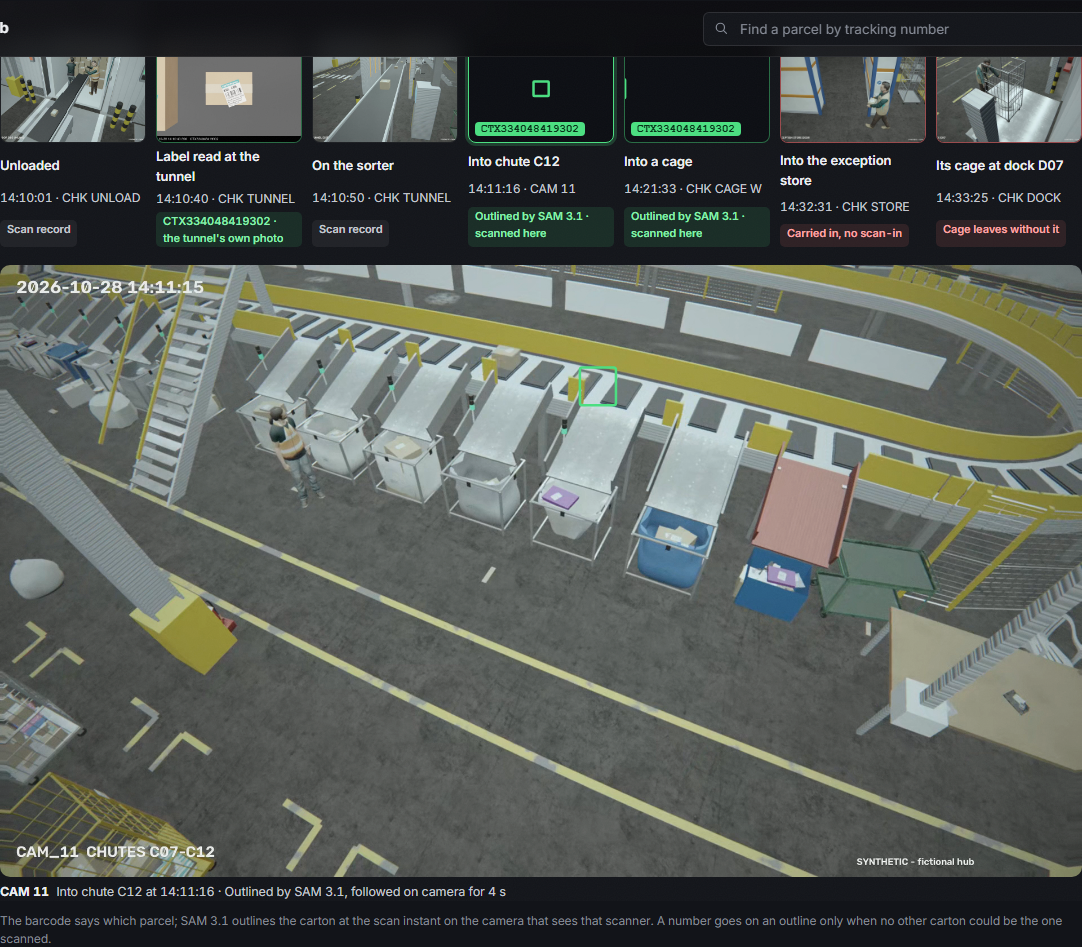
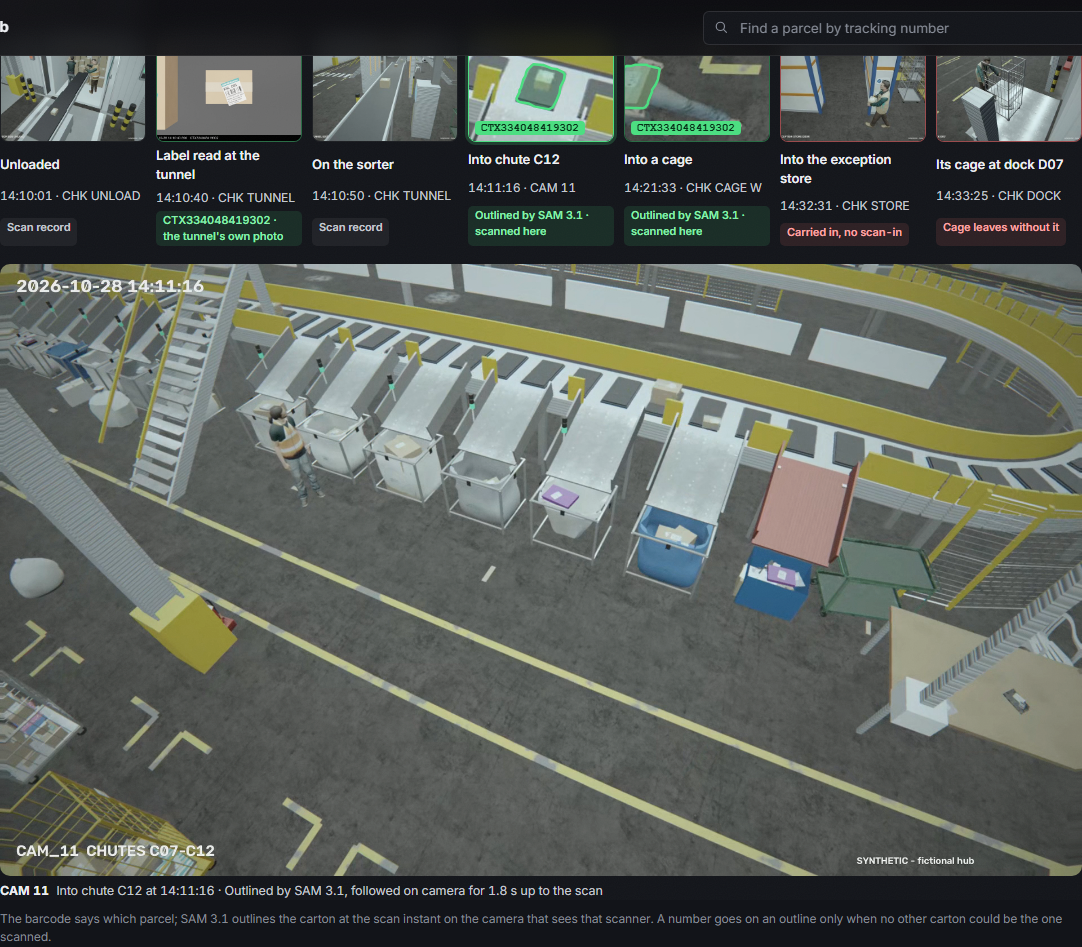
Show the pick where the carton is wholly in view (best frame of the track), follow rests on the scan frame with its outline, contours memoised, Report waits for the case; demo video + thumbnails (day plan G)

diff --git a/frontend/src/components/case/CaseStory.tsx b/frontend/src/components/case/CaseStory.tsx
@@ -18,6 +18,7 @@
 import { useEffect, useMemo, useRef, useState } from "react";
 import { api, previewUrl, signedUrl, useResource } from "@/lib/api";
 import { camId } from "@/lib/hub";
+import { useBestView } from "@/lib/focus";
 import type { MediaRow, Site } from "@/lib/types";
 import { HYPOTHESIS_WORDS, type InsideFacts, type InvestigationView } from "@/lib/answer";
 import type { JourneyObject, XY } from "@/lib/journey";
@@ -33,7 +34,7 @@ const CHECK_WORDS: Record<string, string> = { stayed_in_area: "stayed inside", e
 interface Moment { key: string; iso: string; text: string; xy: XY; tone?: "bad"; from?: string; /** the measured time, when the frame shown is a moment off it */ at?: string;
   /** the clip that shows it and its camera; box: an outline at this moment (frame pixels) */
   media: string; cam: string; box?: number[] | null }
-interface Alert { at_utc: string; camera_id: string; media_id: string; box_px: number[] | null; candidates: { waybill: string }[] }
+interface Alert { at_utc: string; camera_id: string; media_id: string; frame_index: number; track_id: string; box_px: number[] | null; candidates: { waybill: string }[] }
 
 const camWords = (c: string) => c.replace(/^cam_/, "").replaceAll("_", " ");
 
@@ -85,6 +86,9 @@ export function CaseStory({ caseId, inside, view, journey, truck }: {
   const alerts = useResource<Alert[]>(siteId ? `/v1/sites/${siteId}/alerts` : null);
   const waybill = view.objects[0]?.label?.split(" ").at(-1) ?? "";
   const pick = (alerts.data ?? []).find((a) => a.candidates.length === 1 && a.candidates[0].waybill === waybill);
+  // show the pick where the carton is wholly in the picture (the alert's frame is where it leaves the view)
+  const pickView = useBestView(pick?.media_id, pick?.track_id, pick?.frame_index);
+  const pickIso = pick ? new Date(Date.parse(pick.at_utc) + (pickView?.dms ?? 0)).toISOString() : "";
   const area = inside.area_xy as XY;
   const door = inside.door_xy as XY;
   // where the tracked carton stood on the floor (the journey's observed points), nearest a time
@@ -104,8 +108,8 @@ export function CaseStory({ caseId, inside, view, journey, truck }: {
     return { media: inside.media_id, cam: wide };
   };
   const moments: Moment[] = useMemo(() => [
-    ...(pick ? [{ key: "pick", iso: pick.at_utc, text: "Taken out of its cage, no scan", xy: floorAt(firstIso), media: pick.media_id,
-      cam: camId.toHub(pick.camera_id), box: pick.box_px, tone: "bad" as const }]
+    ...(pick ? [{ key: "pick", iso: pickIso, at: pick.at_utc, text: "Taken out of its cage, no scan", xy: floorAt(firstIso), media: pick.media_id,
+      cam: camId.toHub(pick.camera_id), box: pickView?.box ?? pick.box_px, tone: "bad" as const }]
       : inside.track_px.length > 1 ? [{ key: "first", iso: firstIso, text: `Seen on ${inside.camera}, carried toward the store`, xy: floorAt(firstIso),
         from: firstIso, media: inside.media_id, cam: wide }] : []),
     { key: "door", iso: inside.iso.door_at, text: "Last seen at the store door", xy: door, from: firstIso, media: inside.media_id, cam: wide },
@@ -118,7 +122,7 @@ export function CaseStory({ caseId, inside, view, journey, truck }: {
         tone: "bad" as const, ...best(truck!.t, ["CHK_DOCK", wide]) }
       : { key: "end", iso: inside.iso.until, text: "Recording ends, not seen coming out", xy: area, media: inside.media_id, cam: wide },
     // eslint-disable-next-line react-hooks/exhaustive-deps -- fixed by the facts and the clips on site
-  ], [inside, truck, pick, clipFor]);
+  ], [inside, truck, pick, pickIso, pickView, clipFor]);
   const [sel, setSel] = useState("in");
   const cur = moments.find((m) => m.key === sel) ?? moments[0];
   const stills = useStills(moments);

diff --git a/frontend/src/lib/focus.ts b/frontend/src/lib/focus.ts
@@ -31,6 +31,20 @@ export function useContours(media: string | null | undefined, track: string | nu
   return new Map(r.data?.contours ?? []);
 }
 
+/** the frame of a track to SHOW (not the frame an event was measured on): where its box is largest and wholly inside
+ *  the picture, so the outline is not cut at the edge. Returns that frame, its box and how far (ms) it is from `at`. */
+export function useBestView(media: string | null | undefined, track: string | null | undefined, atFrame: number | null | undefined,
+  wh: [number, number] = [1920, 1086]): { frame: number; box: number[]; dms: number } | null {
+  const r = useResource<{ boxes: number[][] }>(media && track ? `/v1/media/${media}/tracks/${track}/boxes` : null);
+  const boxes = r.data?.boxes ?? [];
+  if (!boxes.length || atFrame == null) return null;
+  const inside = boxes.filter((b) => b[2] > 4 && b[3] > 4 && b[4] < wh[0] - 4 && b[5] < wh[1] - 4);
+  if (!inside.length) return null;
+  const best = inside.reduce((a, b) => ((b[4] - b[2]) * (b[5] - b[3]) > (a[4] - a[2]) * (a[5] - a[3]) ? b : a));
+  const at = boxes.find((b) => b[0] === atFrame) ?? boxes[boxes.length - 1];
+  return { frame: best[0], box: best.slice(2), dms: best[1] - at[1] };
+}
+
 /** a polygon as SVG points, shifted into a crop's own pixels */
 export const pointsIn = (poly: number[][], rect: [number, number, number, number] | null = null) =>
   poly.map(([x, y]) => `${(x - (rect?.[0] ?? 0)).toFixed(1)},${(y - (rect?.[1] ?? 0)).toFixed(1)}`).join(" ");

diff --git a/frontend/src/components/hub/LiveAlerts.tsx b/frontend/src/components/hub/LiveAlerts.tsx
@@ -7,7 +7,7 @@
  */
 import Link from "next/link";
 import { useResource } from "@/lib/api";
-import { inCrop, pointsIn, useContours, useFocusCrop } from "@/lib/focus";
+import { inCrop, pointsIn, useBestView, useContours, useFocusCrop } from "@/lib/focus";
 import { hms } from "@/lib/words";
 import "./livealerts.css";
 
@@ -22,10 +22,13 @@ const PLACE: Record<string, string> = { "SP-CAGE-W": "the west cage bays", "SP-C
 
 /** the moment it left, cropped around SAM's outline of the carton (the full frame opens in the case) */
 function Shot({ a }: { a: Alert }) {
-  const got = useFocusCrop(a.media_id, a.frame_index, a.box_px);
-  const edge = useContours(a.media_id, a.track_id).get(a.frame_index);
-  if (!got || !a.box_px) return <span className="la-wait" aria-hidden />;
-  const b = inCrop(a.box_px, got.rect);
+  // the carton as it is carried out, wholly in the picture (the alert's own frame is where it leaves the view)
+  const view = useBestView(a.media_id, a.track_id, a.frame_index);
+  const frame = view?.frame ?? a.frame_index, box = view?.box ?? a.box_px;
+  const got = useFocusCrop(a.media_id, frame, box);
+  const edge = useContours(a.media_id, a.track_id).get(frame);
+  if (!got || !box) return <span className="la-wait" aria-hidden />;
+  const b = inCrop(box, got.rect);
   return (
     <>
       {/* eslint-disable-next-line @next/next/no-img-element -- a signed crop of the original frame around SAM's box */}

diff --git a/frontend/src/components/case/Passport.tsx b/frontend/src/components/case/Passport.tsx
@@ -83,7 +83,16 @@ function Follow({ s, label, onDone }: { s: Stamp; label: string; onDone: () => v
         r.setAttribute("x", String(near[2] - 6)); r.setAttribute("y", String(near[3] - 6));
         r.setAttribute("width", String(near[4] - near[2] + 12)); r.setAttribute("height", String(near[5] - near[3] + 12));
       }
-      if (!reduced && v.currentTime >= to) { v.pause(); onDone(); return; }
+      if (!reduced && v.currentTime >= to) {  // rest on the scan's own frame, outline on, then hand over
+        v.pause();
+        v.currentTime = (play.data?.pts_ms[f0] ?? v.currentTime * 1000) / 1000;
+        const last = boxes.find((b) => b[0] === f0) ?? boxes[boxes.length - 1];
+        const e = edges.get(last[0]);
+        if (poly.current && e) { poly.current.setAttribute("points", pointsIn(e)); poly.current.style.opacity = "1"; }
+        else if (rect.current) rect.current.style.opacity = "1";
+        window.setTimeout(onDone, 1800);
+        return;
+      }
       id = requestAnimationFrame(draw);
     };
     id = requestAnimationFrame(draw);

diff --git a/frontend/src/app/cases/[caseId]/report/page.tsx b/frontend/src/app/cases/[caseId]/report/page.tsx
@@ -195,7 +195,7 @@ export default function ReportPage({ params }: { params: Promise<{ caseId: strin
                 <button type="button" className="hb-btn" onClick={draftUpdate} disabled={busy === "customer"}>{busy === "customer" ? "Drafting…" : "Draft again"}</button>
               </div>
             </div>
-          ) : upd?.status === "no_answer" || (!inside && !found) ? (
+          ) : upd?.status === "no_answer" || (st.data && !inside && !found) ? (
             <p className="rp-p">No verified answer yet, so there is nothing to tell the customer. The update is drafted once the investigation places it.</p>
           ) : (
             <div className="rp-cu-acts">

diff --git a/backend/src/spoor/api/app.py b/backend/src/spoor/api/app.py
@@ -1365,6 +1365,8 @@ def create_app(settings: Settings | None = None, services: Services | None = Non
                 "boxes": [[o.source_frame.frame_index, o.source_frame.pts_ms, *o.bbox_xyxy_px] for o in obs],
                 "label": "SAM 3.1's box on each frame of the track (boxes, not masks)"}  # fmt: skip
 
+    _contours: dict[tuple[str, str, int], dict] = {}
+
     @app.get("/v1/media/{media_id}/tracks/{track_id}/contours")
     def track_contours(media_id: str, track_id: str, p: User) -> dict:
         """SAM 3.1's own mask edge on each frame of a track: the masks SAM returned (kept in its cached raw output),
@@ -1378,9 +1380,12 @@ def create_app(settings: Settings | None = None, services: Services | None = Non
                      key=lambda o: o.source_frame.frame_index)  # fmt: skip
         if not obs:
             raise HTTPException(404, "no boxes for this track on this clip")
-        sha = load_result(svc.media, media_id).proxy.sha256[:16]
-        found = contours_for([(o.source_frame.frame_index, tuple(o.bbox_xyxy_px)) for o in obs],
-                             sorted((svc.settings.data_dir / "inference_cache").glob(f"sam_{sha}_*.json")))
+        key = (media_id, track_id, len(obs))
+        if key not in _contours:  # SAM's cached outputs only grow; a track's contours are fixed once traced
+            sha = load_result(svc.media, media_id).proxy.sha256[:16]
+            _contours[key] = contours_for([(o.source_frame.frame_index, tuple(o.bbox_xyxy_px)) for o in obs],
+                                          sorted((svc.settings.data_dir / "inference_cache").glob(f"sam_{sha}_*.json")))
+        found = _contours[key]
         return {"media_id": media_id, "track_id": track_id,
                 "contours": [[f, poly] for f, poly in found.items()],
                 "label": "SAM 3.1's mask edge (its own segmentation), traced; frames without a mask are left out"}  # fmt: skip

diff --git a/review/log.md b/review/log.md
@@ -435,3 +435,5 @@
 2026-11-02 13:35 · docs · Day plan F: README, LIMITATIONS and DEMO_SCRIPT rewritten to the current state (the 27 Oct versions said no live models, no footage, no evaluation): the S2 case, the pipeline with each Meta model's role, measured results from EVALUATION.md, real vs simulated, the demo flow customer hook -> Hub alert -> Investigating -> answer -> passport -> Proof -> Go look -> customer update; deadline Thu 5 Nov 10:00 MYT.
 2026-11-02 13:47 · eval · Handshakes re-run on the valid 1920 px copies (28 rows had used purged uploads): induction outlines came out 4/4 wrong once real, so labels at sorter points are now limited to divert/recirculation events where the motion rule was checked. Final: 51/51 labels right (100 %), 68 % of right outlines labelled (diverts 77 %); story: divert C12 and cage set-down labelled right, tunnel via its own photo. EVALUATION.md updated.
 2026-11-02 13:53 · ui · skills: emil-design-eng + design-taste + impeccable + rexton-ui loaded. The demo video showed load-time states the screenshots missed: the Hub panel briefly read the old scan sentence, the answer and Report briefly showed a red 'Lost track' chip and the Report a black 'No picture' moment. Now: no verdict before the data ('Checking', neutral), the Hub headline is a skeleton until the case arrives, the Report's key moments appear once they can be shown. Dashboard 5.4 s -> 143 ms (missing moment only for unanswered cases).
+2026-11-02 13:54 · reviewer · scale bug root-caused + fixed (51/51), outlines + crops + hang fixed, docs done; next: cage-pick crop, outline on opened follow, unload fix, demo-path walk (see reviews/reviewer_tick_1354.md)
+2026-11-02 13:59 · ui · skills: emil-design-eng + design-taste + impeccable + rexton-ui. ACK reviewer_tick_1354. The cage-pick moment and the Hub alert card now show the track's frame where the carton is largest and wholly in the picture (the alert's own frame is where it leaves the view), cropped on SAM's outline; the follow comes to rest on the scan's frame with its outline on, then hands over; contours memoised per track (the alert card took ~25 s to draw). CHK_CHUTE cannot be preferred at the chute: its clock is not fitted, so it never gets a labelled outline. Report no longer says 'no verified answer yet' while the case is still loading. Video: review/video/demo_path_1440.mp4 (112 s) + 3 thumbnails (day plan G).
